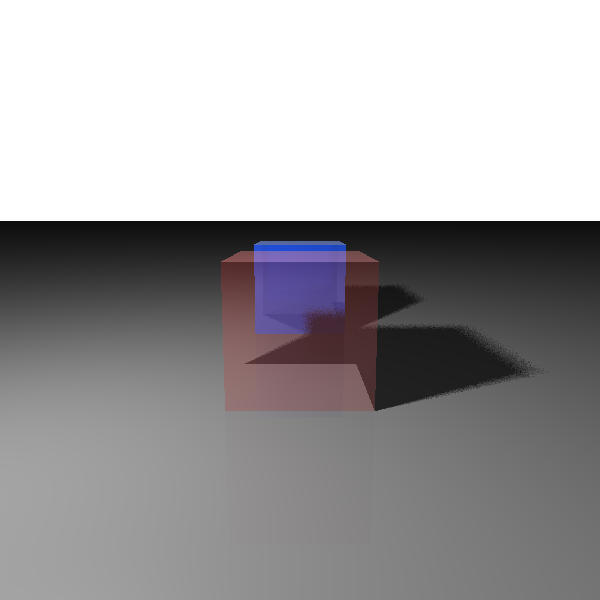
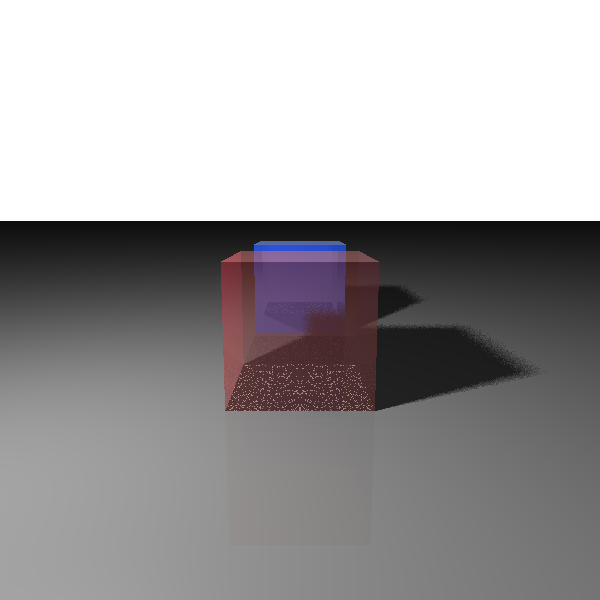
good progress, there is salt and peper

Changed region(s): [[0.36, 0.42, 0.6, 0.57], [0.36, 0.6, 0.63, 0.69]]

diff --git a/raytracer/ray_tracer.py b/raytracer/ray_tracer.py
@@ -142,41 +142,64 @@ def main():
         return False, float('inf'), None, None
 
     def intersect_cube(ray_origin, ray_direction, cube):
-        # position already numpy
         cube_min = cube.position - cube.scale / 2
         cube_max = cube.position + cube.scale / 2
 
-        t_min = -float('inf')
-        t_max = float('inf')
-        hit_normal = None
+        t_near = -float('inf')
+        t_far  =  float('inf')
+
+        n_near = None
+        n_far  = None
 
         for i in range(3):
-            if abs(ray_direction[i]) < EPSILON:
-                if ray_origin[i] < cube_min[i] or ray_origin[i] > cube_max[i]:
+            d = ray_direction[i]
+            o = ray_origin[i]
+
+            if abs(d) < EPSILON:
+                # Ray parallel to slabs on this axis: must be inside the slab
+                if o < cube_min[i] or o > cube_max[i]:
                     return False, float('inf'), None, None
-            else:
-                t1 = (cube_min[i] - ray_origin[i]) / ray_direction[i]
-                t2 = (cube_max[i] - ray_origin[i]) / ray_direction[i]
+                continue
 
-                if t1 > t2:
-                    t1, t2 = t2, t1
+            inv_d = 1.0 / d
+            t1 = (cube_min[i] - o) * inv_d
+            t2 = (cube_max[i] - o) * inv_d
 
-                if t1 > t_min:
-                    t_min = t1
-                    hit_normal = np.zeros(3)
-                    hit_normal[i] = -1 if ray_direction[i] > 0 else 1
+            # normals for the two planes on this axis
+            n1 = np.zeros(3); n2 = np.zeros(3)
+            n1[i] = -1.0
+            n2[i] =  1.0
 
-                if t2 < t_max:
-                    t_max = t2
+            # ensure t1 is near and t2 is far, and keep normals consistent
+            if t1 > t2:
+                t1, t2 = t2, t1
+                n1, n2 = n2, n1
 
-                if t_min > t_max:
-                    return False, float('inf'), None, None
+            if t1 > t_near:
+                t_near = t1
+                n_near = n1
 
-        if t_min > EPSILON:
-            point = ray_origin + t_min * ray_direction
-            return True, t_min, point, hit_normal
+            if t2 < t_far:
+                t_far = t2
+                n_far = n2
 
-        return False, float('inf'), None, None
+            if t_near > t_far:
+                return False, float('inf'), None, None
+
+        # If the box is entirely behind the ray
+        if t_far <= EPSILON:
+            return False, float('inf'), None, None
+
+        # Choose entry if we're outside, otherwise choose exit (origin inside cube)
+        if t_near > EPSILON:
+            t_hit = t_near
+            hit_normal = n_near
+        else:
+            t_hit = t_far
+            hit_normal = n_far
+
+        point = ray_origin + t_hit * ray_direction
+        return True, t_hit, point, hit_normal
 
     @profile
     def find_closest_intersection(ray_origin, ray_direction, surfaces):
